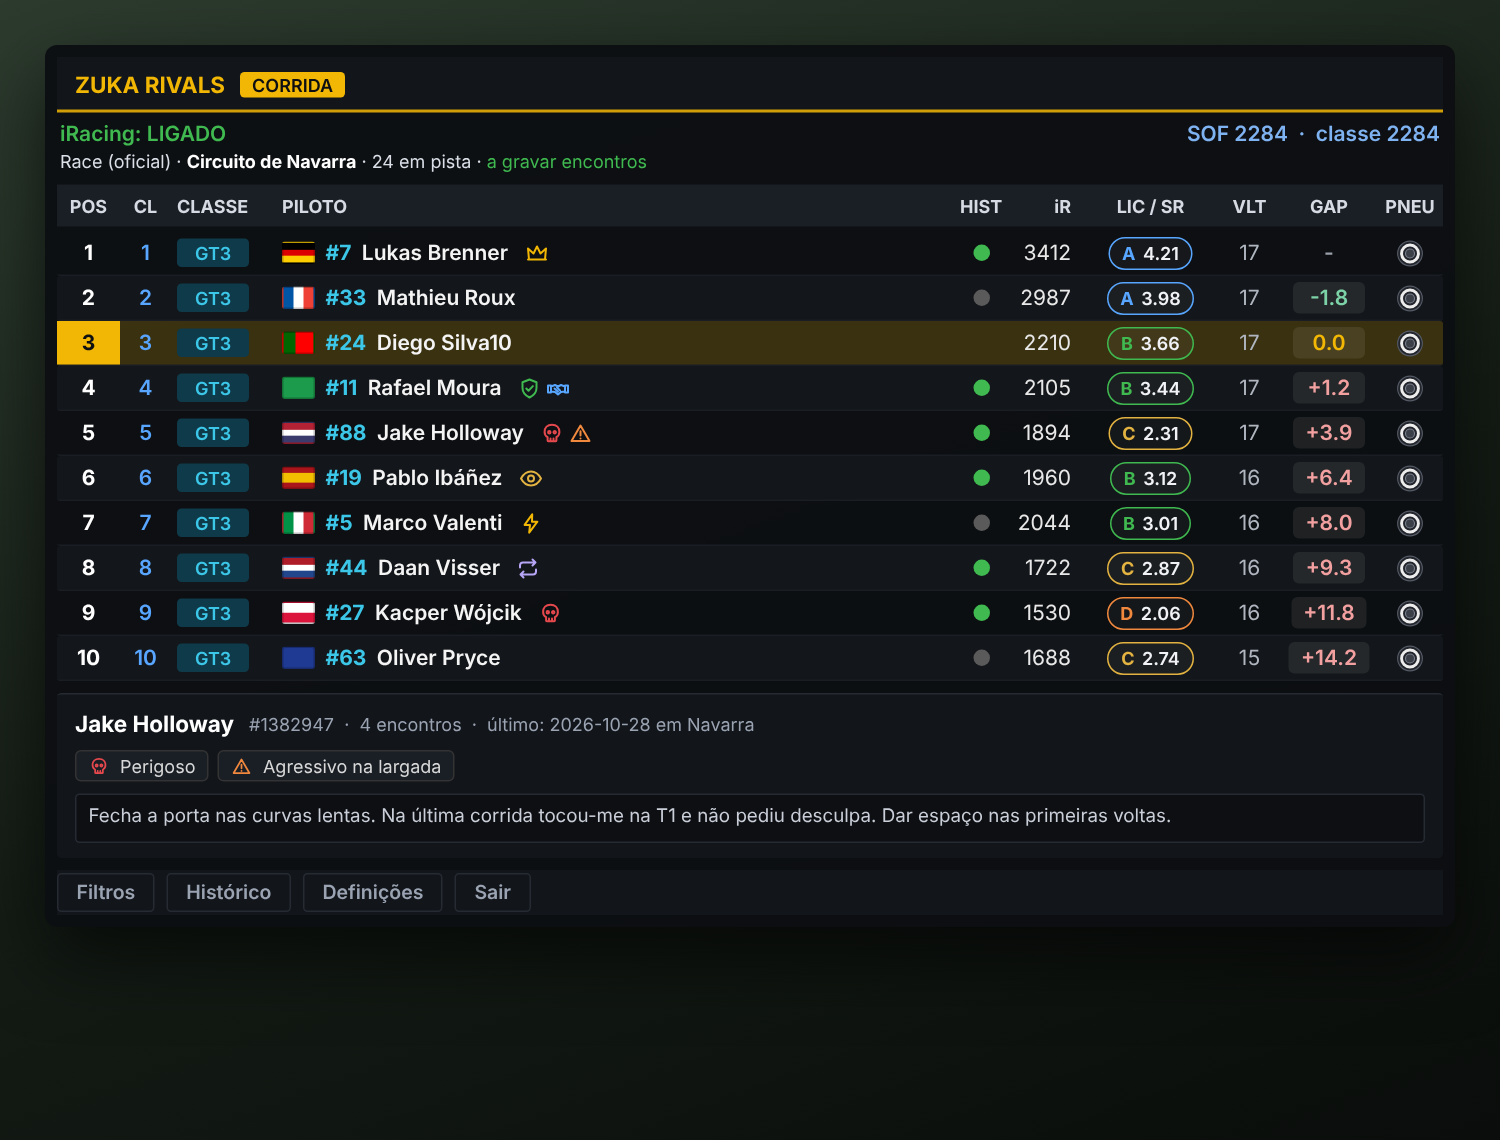
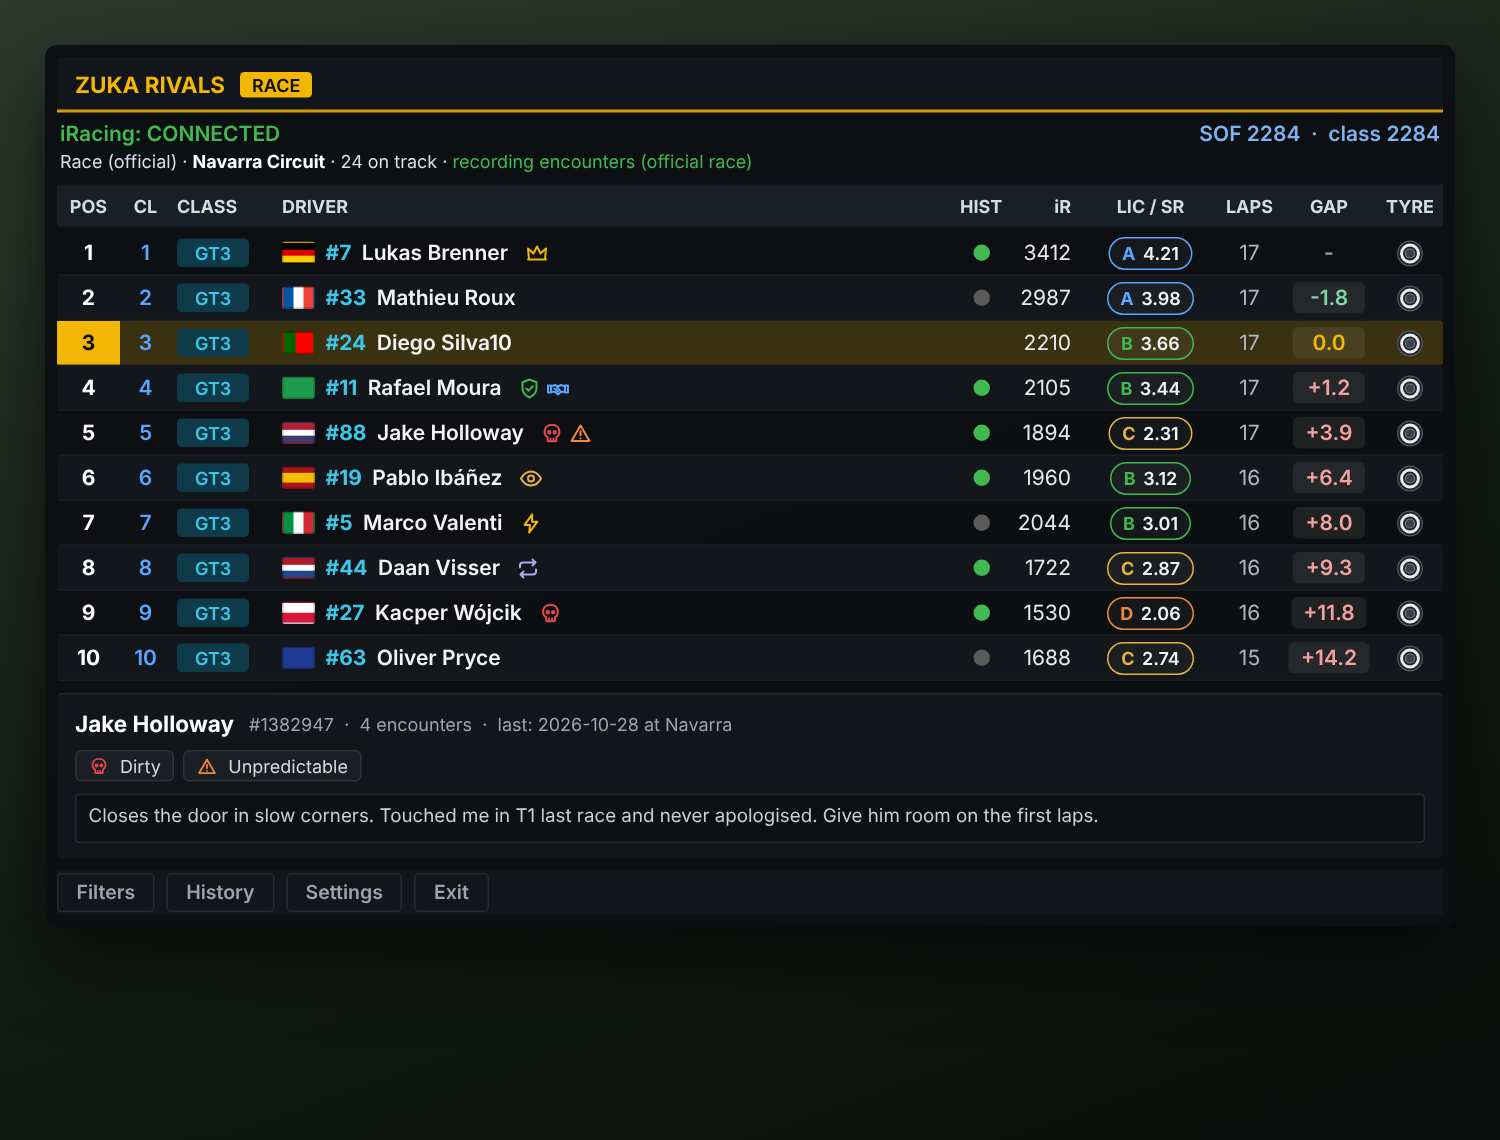
update

diff --git a/MainWindow.xaml b/MainWindow.xaml
@@ -273,7 +273,7 @@
                     <ItemsControl x:Name="RowsList" Focusable="False">
                         <ItemsControl.ItemTemplate>
                             <DataTemplate>
-                                <Border Background="{Binding RowBg}" BorderBrush="{DynamicResource LineBrush}" BorderThickness="0,0,0,1"
+                                <Border Background="{Binding RowBg}" Opacity="{Binding RowOpacity}" BorderBrush="{DynamicResource LineBrush}" BorderThickness="0,0,0,1"
                                         CornerRadius="{DynamicResource RowCorner}" Margin="{DynamicResource RowMargin}" Cursor="Hand" MouseLeftButtonUp="Row_MouseLeftButtonUp" MouseRightButtonUp="Row_MouseRightButtonUp">
                                     <Grid Height="{DynamicResource RowH}">
                                         <Grid.ColumnDefinitions>
@@ -557,6 +557,8 @@
                                     <WrapPanel Grid.Row="0" Grid.ColumnSpan="3" Margin="0,0,0,8">
                                         <CheckBox x:Name="TopmostCheck" Content="{loc:Tr chk_topmost}" Checked="Option_Changed" Unchecked="Option_Changed" />
                                         <CheckBox x:Name="HidePitCheck" Content="{loc:Tr chk_hidepit}" Checked="Option_Changed" Unchecked="Option_Changed" />
+                                        <CheckBox x:Name="KeepAfterRaceCheck" Content="{loc:Tr chk_keeprace}" ToolTip="{loc:Tr tip_keeprace}" Checked="Option_Changed" Unchecked="Option_Changed" />
+                                        <CheckBox x:Name="RadarCheck" Content="{loc:Tr chk_radar}" ToolTip="{loc:Tr tip_radar}" Checked="Option_Changed" Unchecked="Option_Changed" />
                                         <CheckBox x:Name="CenterCheck" Content="{loc:Tr chk_center}" Checked="Option_Changed" Unchecked="Option_Changed" />
                                         <CheckBox x:Name="OnlyConnectedCheck" Content="{loc:Tr chk_onlyconn}" Checked="Option_Changed" Unchecked="Option_Changed"
                                                   ToolTip="{loc:Tr tip_onlyconn}" />

diff --git a/MainWindow.xaml.cs b/MainWindow.xaml.cs
@@ -325,8 +325,14 @@ public partial class MainWindow : Window
         }
     }
 
+    private DateTime? _endedAt;
+    private DateTime _lastH2hSave = DateTime.MinValue;
+    private string? _radarText;
+
     private void ResetSessionState()
     {
+        _endedAt = null;
+        _radarText = null;
         _yamlRef = null;
         _session = new ParsedSession();
         _known = new Dictionary<int, int>();
@@ -559,7 +565,15 @@ public partial class MainWindow : Window
         bool ours = ComputeOrder(active, mode, state, sessionTime, pct, lapsDone, bestLap, surface,
                                  _posMap, _clsMap, _classBest);
 
+        // Fim da corrida: a lista fica congelada (quem sai continua la), ate ao tempo limite opcional
+        if (state >= 5) { _endedAt ??= DateTime.UtcNow; } else { _endedAt = null; }
+        bool frozen = _settings.KeepAfterRace && _endedAt != null
+                      && !(_settings.RemoveAfterMin > 0 && (DateTime.UtcNow - _endedAt.Value).TotalMinutes >= _settings.RemoveAfterMin);
+
         // ---- linhas da tabela ----
+        string? radarText = null;
+        double radarBest = double.MaxValue;
+        var h2hNow = new List<KeyValuePair<int, bool>>();
         var wanted = new List<RowVm>();
         var seen = new HashSet<int>();
         foreach (var d in active)
@@ -569,7 +583,18 @@ public partial class MainWindow : Window
             // Carros nos boxes (ou fora do mundo) nao aparecem; a tua linha aparece sempre
             int surf = AtOr(surface, d.CarIdx, 3);
             bool inPit = onPit != null && d.CarIdx < onPit.Length && onPit[d.CarIdx];
-            bool hide = !isMe && (surf < 0 || (_settings.HidePitCars && (inPit || surf == 1 || surf == 2)));
+            if (frozen && !isMe && surf < 0)
+            {
+                // ja saiu do mundo: mantem a linha como estava (mais escura); se nunca a mostrei, nao aparece
+                if (_rowByCar.TryGetValue(d.CarIdx, out RowVm? kept))
+                {
+                    kept.RowOpacity = 0.5;
+                    wanted.Add(kept);
+                    seen.Add(d.CarIdx);
+                }
+                continue;
+            }
+            bool hide = !isMe && !frozen && (surf < 0 || (_settings.HidePitCars && (inPit || surf == 1 || surf == 2)));
             if (!StableVisible(d.CarIdx, !hide)) continue;
 
             if (!_rowByCar.TryGetValue(d.CarIdx, out RowVm? r))
@@ -586,6 +611,7 @@ public partial class MainWindow : Window
             // + = esta a frente de ti na pista, - = esta atras. Usa a distancia na pista (nunca mais de meia volta).
             // A frente: tempo que tu demoras a chegar la (o teu ritmo). Atras: tempo que ele demora a chegar a ti (ritmo dele).
             string gapText = "-";
+            double gapVal = double.NaN;
             float other = AtFOr(pct, d.CarIdx, -1f);
             if (!isMe && myPct >= 0f && other >= 0f)
             {
@@ -594,7 +620,10 @@ public partial class MainWindow : Window
                 else if (dp < -0.5) dp += 1.0;
                 double lap = dp >= 0 ? myLap : (d.EstLapTime > 0 ? d.EstLapTime : myLap);
                 if (lap > 0)
-                    gapText = (dp * lap).ToString("+0.0;-0.0;0.0", CultureInfo.InvariantCulture);
+                {
+                    gapVal = dp * lap;
+                    gapText = gapVal.ToString("+0.0;-0.0;0.0", CultureInfo.InvariantCulture);
+                }
             }
 
             // Posicao: ao vivo (corrida) ou pela melhor volta (treino/qualificacao); senao a do iRacing
@@ -662,6 +691,30 @@ public partial class MainWindow : Window
             r.Gap = gapText;
             r.SetTags(TagsFor(d.UserId));
             r.RowBg = isMe ? MeRowBrush() : _idleBrush;
+            r.RowOpacity = 1.0;
+
+            // Radar de perigo: tag Sujo / Agressivo / Imprevisivel perto de ti (so com a corrida/sessao em andamento)
+            if (_settings.RadarOn && !isMe && !frozen && !double.IsNaN(gapVal) && Math.Abs(gapVal) <= _settings.RadarSeconds
+                && surf == 3 && TagsFor(d.UserId).Any(t => t.IconKey == "skull" || t.IconKey == "bolt" || t.IconKey == "warning"))
+            {
+                r.RowBg = BrushCache.Argb(0x55, 0xF8, 0x51, 0x49);
+                if (Math.Abs(gapVal) < radarBest)
+                {
+                    radarBest = Math.Abs(gapVal);
+                    radarText = Loc.T(gapVal >= 0 ? "radar_ahead" : "radar_behind", ShortName(d.DisplayName),
+                                      Math.Abs(gapVal).ToString("0.0", CultureInfo.InvariantCulture));
+                }
+            }
+
+            // Confronto direto: quem acabou a frente (so corrida oficial, depois da bandeira)
+            if (state >= 5 && !isMe && d.UserId > 0 && p > 0 && At(pos, _session.DriverCarIdx) > 0)
+            {
+                int myP = At(pos, _session.DriverCarIdx);
+                int myCp = At(cpos, _session.DriverCarIdx);
+                bool sameClass = d.CarClassId == myClass && cp > 0 && myCp > 0;
+                bool iAhead = sameClass ? myCp < cp : myP < p;
+                h2hNow.Add(new KeyValuePair<int, bool>(d.UserId, iAhead));
+            }
 
             if (isMe)
             {
@@ -705,6 +758,12 @@ public partial class MainWindow : Window
         foreach (int k in seen) _lastSeen[k] = nowT;
         foreach (int idx in _rowByCar.Keys.Where(k => !seen.Contains(k)).ToList())
         {
+            if (frozen)
+            {
+                _rowByCar[idx].RowOpacity = 0.5;
+                if (!wanted.Contains(_rowByCar[idx])) wanted.Add(_rowByCar[idx]);
+                continue;
+            }
             // quem sai da sessao fica mais 2 s (a nao ser que seja o filtro a esconder): evita piscar
             if (!FilterActive && !active.Any(x => x.CarIdx == idx) && _lastSeen.TryGetValue(idx, out DateTime ls) && (nowT - ls).TotalSeconds < 2.0)
             {
@@ -767,6 +826,15 @@ public partial class MainWindow : Window
             _recordedThisSession += _history.RecordEncounters(ctx, _session.Drivers, testMode);
             _needRecord = false;
         }
+
+        if (_history != null && real && state >= 5 && !replay && h2hNow.Count > 0
+            && (DateTime.UtcNow - _lastH2hSave).TotalSeconds >= 5)
+        {
+            _lastH2hSave = DateTime.UtcNow;
+            try { _history.SaveHeadToHead(_subId, h2hNow); }
+            catch (Exception ex) { AppPaths.Log("h2h: " + ex.Message); }
+        }
+        _radarText = radarText;
 
         SetInfo(sType + (_session.Official ? Loc.T("info_official") : Loc.T("info_unofficial")),
                 _session.TrackName,
@@ -876,6 +944,9 @@ public partial class MainWindow : Window
         try
         {
             DriverHistory h = _history.GetHistory(d.UserId, _subId, _settings.TestMode);
+            var h2h = _history.GetHeadToHead(d.UserId, _subId);
+            if (h2h.Ahead + h2h.Behind > 0)
+                sb.AppendLine(Loc.T("det_h2h", h2h.Ahead, h2h.Behind));
             if (h.Count == 0)
             {
                 sb.AppendLine(Loc.T("det_none"));

diff --git a/Strings.cs b/Strings.cs
@@ -48,6 +48,13 @@ internal static class Strings
         ("lbl_language", "Idioma", "Language", "Idioma", "Langue"),
         ("txt_columns_hint", "Colunas visíveis (POS e PILOTO ficam sempre)", "Visible columns (POS and DRIVER always stay)", "Columnas visibles (POS y PILOTO siempre se quedan)", "Colonnes visibles (POS et PILOTE restent toujours)"),
         ("chk_topmost", "Sempre por cima", "Always on top", "Siempre encima", "Toujours au premier plan"),
+        ("chk_keeprace", "Manter pilotos na lista depois da corrida", "Keep drivers in the list after the race", "Mantener pilotos en la lista tras la carrera", "Garder les pilotes dans la liste après la course"),
+        ("tip_keeprace", "Depois da bandeira quadriculada, quem sai da sessão continua na lista (mais escuro).", "After the chequered flag, drivers who leave stay in the list (dimmed).", "Tras la bandera a cuadros, quien sale de la sesión sigue en la lista (atenuado).", "Après le drapeau à damier, les pilotes qui quittent restent dans la liste (atténués)."),
+        ("chk_radar", "Radar de perigo", "Danger radar", "Radar de peligro", "Radar de danger"),
+        ("tip_radar", "Destaca a vermelho e avisa no topo quando um piloto com tag Sujo, Agressivo ou Imprevisível está perto de ti.", "Highlights in red and warns at the top when a driver tagged Dirty, Aggressive or Unpredictable is close to you.", "Resalta en rojo y avisa arriba cuando un piloto con etiqueta Sucio, Agresivo o Impredecible está cerca.", "Met en rouge et avertit en haut quand un pilote marqué Sale, Agressif ou Imprévisible est proche."),
+        ("radar_ahead", "⚠ {0} à frente · {1} s", "⚠ {0} ahead · {1} s", "⚠ {0} delante · {1} s", "⚠ {0} devant · {1} s"),
+        ("radar_behind", "⚠ {0} atrás · {1} s", "⚠ {0} behind · {1} s", "⚠ {0} detrás · {1} s", "⚠ {0} derrière · {1} s"),
+        ("det_h2h", "Confronto direto (corridas oficiais): à frente dele {0}  ·  atrás dele {1}", "Head-to-head (official races): finished ahead {0}  ·  behind {1}", "Cara a cara (carreras oficiales): delante {0}  ·  detrás {1}", "Face à face (courses officielles) : devant {0}  ·  derrière {1}"),
         ("chk_hidepit", "Esconder carros nos boxes", "Hide cars in the pits", "Ocultar coches en boxes", "Masquer les voitures aux stands"),
         ("chk_center", "Seguir a minha linha", "Follow my row", "Seguir mi fila", "Suivre ma ligne"),
         ("chk_onlyconn", "Mostrar só com o iRacing ligado", "Show only when iRacing is running", "Mostrar solo con iRacing abierto", "Afficher seulement quand iRacing est lancé"),

diff --git a/HistoryDb.cs b/HistoryDb.cs
@@ -46,6 +46,11 @@ public sealed class HistoryDb : IDisposable
 
     private void Migrate()
     {
+        _db.Execute(@"CREATE TABLE IF NOT EXISTS h2h (
+            cust_id       INTEGER NOT NULL,
+            subsession_id INTEGER NOT NULL,
+            ahead         INTEGER NOT NULL,
+            PRIMARY KEY (cust_id, subsession_id))");
         _db.Execute(@"CREATE TABLE IF NOT EXISTS drivers (
             cust_id    INTEGER PRIMARY KEY,
             name       TEXT NOT NULL,
@@ -417,6 +422,36 @@ public sealed class HistoryDb : IDisposable
     }
 
     /// <summary>Apaga os registos gravados em modo teste. Devolve quantos encontros foram apagados.</summary>
+    /// <summary>Guarda quem acabou a frente (1 = eu, 0 = ele) numa corrida oficial. Pode ser chamado varias vezes (substitui).</summary>
+    public void SaveHeadToHead(long subSessionId, IEnumerable<KeyValuePair<int, bool>> results)
+    {
+        _db.Execute("BEGIN");
+        try
+        {
+            foreach (var kv in results)
+                _db.Execute("INSERT OR REPLACE INTO h2h (cust_id, subsession_id, ahead) VALUES (?, ?, ?)",
+                    kv.Key, subSessionId, kv.Value ? 1 : 0);
+            _db.Execute("COMMIT");
+        }
+        catch
+        {
+            try { _db.Execute("ROLLBACK"); } catch { }
+            throw;
+        }
+    }
+
+    /// <summary>Em quantas corridas oficiais acabei a frente / atras deste piloto (sem contar a sessao atual).</summary>
+    public (int Ahead, int Behind) GetHeadToHead(int custId, long currentSubSessionId)
+    {
+        var rows = _db.Query(
+            "SELECT COALESCE(SUM(ahead), 0), COUNT(*) FROM h2h WHERE cust_id = ? AND subsession_id <> ?",
+            custId, currentSubSessionId);
+        if (rows.Count == 0) return (0, 0);
+        int a = (int)(long)rows[0][0]!;
+        int n = (int)(long)rows[0][1]!;
+        return (a, n - a);
+    }
+
     public int DeleteTestData()
     {
         int n = _db.Execute("DELETE FROM encounters WHERE is_test = 1");

diff --git a/MainWindow.Settings.cs b/MainWindow.Settings.cs
@@ -21,6 +21,8 @@ public partial class MainWindow
 
         TopmostCheck.IsChecked = _settings.AlwaysOnTop;
         HidePitCheck.IsChecked = _settings.HidePitCars;
+        KeepAfterRaceCheck.IsChecked = _settings.KeepAfterRace;
+        RadarCheck.IsChecked = _settings.RadarOn;
         CenterCheck.IsChecked = _settings.AutoCenter;
         AutoBackupCheck.IsChecked = _settings.AutoBackup;
         OnlyConnectedCheck.IsChecked = _settings.OnlyWhenConnected;
@@ -95,6 +97,8 @@ public partial class MainWindow
         if (_loading) return;
         _settings.AlwaysOnTop = TopmostCheck.IsChecked == true;
         _settings.HidePitCars = HidePitCheck.IsChecked == true;
+        _settings.KeepAfterRace = KeepAfterRaceCheck.IsChecked == true;
+        _settings.RadarOn = RadarCheck.IsChecked == true;
         _settings.AutoCenter = CenterCheck.IsChecked == true;
         _settings.AutoBackup = AutoBackupCheck.IsChecked == true;
         _settings.OnlyWhenConnected = OnlyConnectedCheck.IsChecked == true;

diff --git a/AppPaths.cs b/AppPaths.cs
@@ -66,6 +66,10 @@ public sealed class AppSettings
     public bool HidePitCars { get; set; } = true;
     public bool AutoCenter { get; set; } = true;
     public bool AutoBackup { get; set; } = true;
+    public bool KeepAfterRace { get; set; } = true;   // 1.1: depois da bandeira, os pilotos ficam na lista
+    public int RemoveAfterMin { get; set; }           // 0 = nunca; senao remove os que sairam N min depois do fim
+    public bool RadarOn { get; set; } = true;         // 1.1: radar de perigo
+    public int RadarSeconds { get; set; } = 8;
     public bool OnlyWhenConnected { get; set; }
     public int ToggleMods { get; set; } = 3;      // Ctrl+Alt
     public int ToggleVk { get; set; } = 0x4F;     // O

diff --git a/MainWindow.Info.cs b/MainWindow.Info.cs
@@ -26,6 +26,11 @@ public partial class MainWindow
         AddRun(count, InfoMain, FontWeights.Normal);
         AddRun("  ·  ", InfoSep, FontWeights.Normal);
         AddRun(recording, recBrush, FontWeights.Normal);
+        if (_radarText != null)
+        {
+            AddRun("  ·  ", InfoSep, FontWeights.Normal);
+            AddRun(_radarText, BrushCache.Rgb(0xF85149), FontWeights.Bold);
+        }
     }
 
     private void AddRun(string text, Brush brush, FontWeight weight)

diff --git a/RowVm.cs b/RowVm.cs
@@ -107,6 +107,9 @@ public sealed class RowVm : INotifyPropertyChanged
     private string _tireTip = "";
     public string TireTip { get => _tireTip; set => Set(ref _tireTip, value); }
 
+    private double _rowOpacity = 1.0;
+    public double RowOpacity { get => _rowOpacity; set => Set(ref _rowOpacity, value); }
+
     private Brush _rowBg = Brushes.Transparent;
     public Brush RowBg { get => _rowBg; set => Set(ref _rowBg, value); }
 

diff --git a/README.md b/README.md
@@ -41,6 +41,8 @@ So I built it, locally, on my own PC. Your history lives in a small database on 
 - **Class detection** with a color per car class, class position, and a **strength-of-field (SOF)** figure for the grid and your class.
 - iRating, license class and Safety Rating in a single color-coded badge, country flags, car numbers, and a **tyre icon** (dry / intermediate / wet).
 - Automatic mode switching: **Race**, **Qualifying** or **Practice**.
+- **Danger radar:** drivers tagged Dirty, Aggressive or Unpredictable are highlighted in red and announced in the header when they are within a few seconds of you.
+- After the chequered flag the list is **kept** (drivers who leave are dimmed), with an optional auto-remove timer.
 
 **Driver memory**
 - Every driver is stored by their **iRacing Customer ID**, so name changes do not break the history.
@@ -48,6 +50,7 @@ So I built it, locally, on my own PC. Your history lives in a small database on 
 - **Tags** with clean vector icons (skull, warning, shield, crown, handshake and more) plus your own custom tags, and free-text **notes** per driver.
 - **Search your history** for drivers who are no longer in the session, to add tags or notes afterwards.
 - Filters by name, history, tag and class.
+- **Head-to-head:** for each driver you can see in how many official races you finished ahead of or behind them.
 - Only **official races** are recorded as encounters. Practice and unofficial sessions do not count.
 
 **Make it yours**
@@ -64,6 +67,8 @@ So I built it, locally, on my own PC. Your history lives in a small database on 
 1. Go to [**Releases**](../../releases) and download `ZukaRivals-Setup-x.y.z.exe`.
 2. Run it and follow the wizard: choose the folder, and whether you want a desktop shortcut.
 3. Start **Zuka Rivals** from the Start menu or the desktop and open iRacing. The overlay appears when a session is running.
+
+If Windows says you have no permission, you probably picked `Program Files` without administrator rights: keep the suggested folder, or choose "Install for all users" when the installer starts.
 
 The installer includes everything the program needs (the .NET runtime included), does not ask for administrator rights by default, and adds a normal entry to **Windows Settings > Apps**, so you can uninstall it cleanly. On uninstall it asks whether you also want to delete your history and settings.
 
@@ -110,7 +115,7 @@ The installer is an [Inno Setup](https://jrsoftware.org/isinfo.php) script in [`
 Ideas for future versions (no promises):
 - Support for other sims, starting with **Le Mans Ultimate**, then **Assetto Corsa Competizione**.
 - A signed installer, or a Microsoft Store package, to remove the SmartScreen warning.
-- Tag-aware history indicators.
+- Post-race review and an incidents column.
 
 ## Contributing
 
